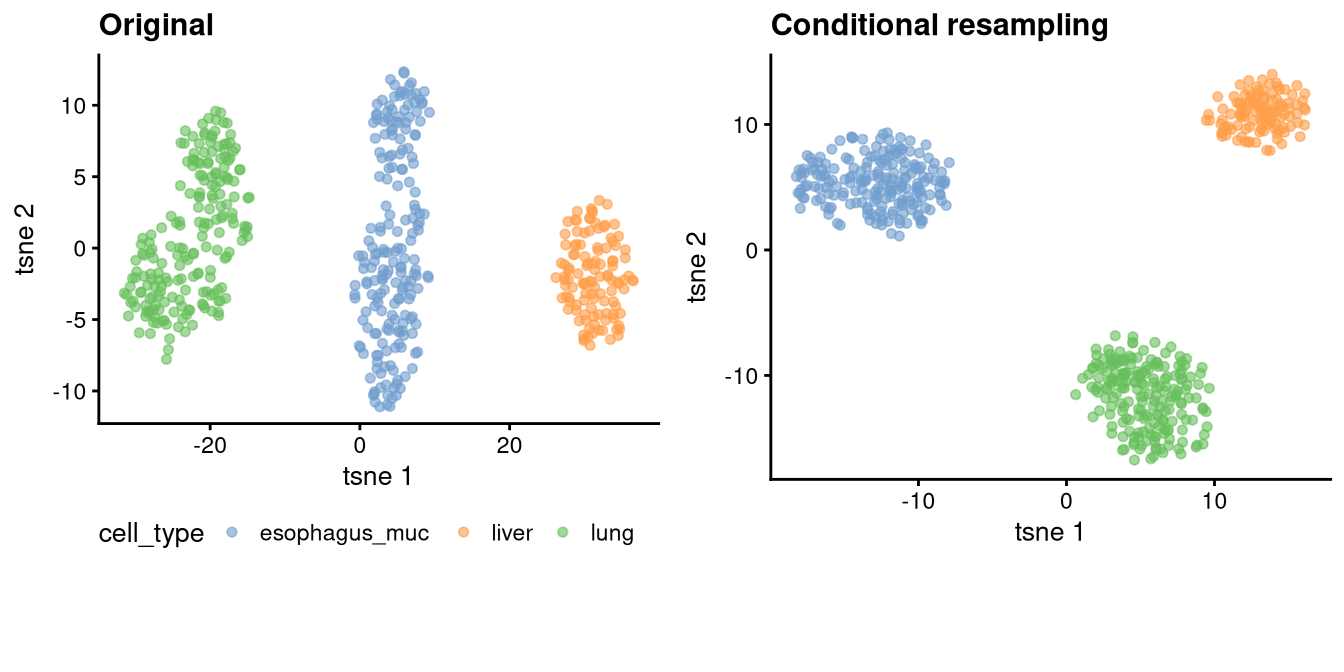
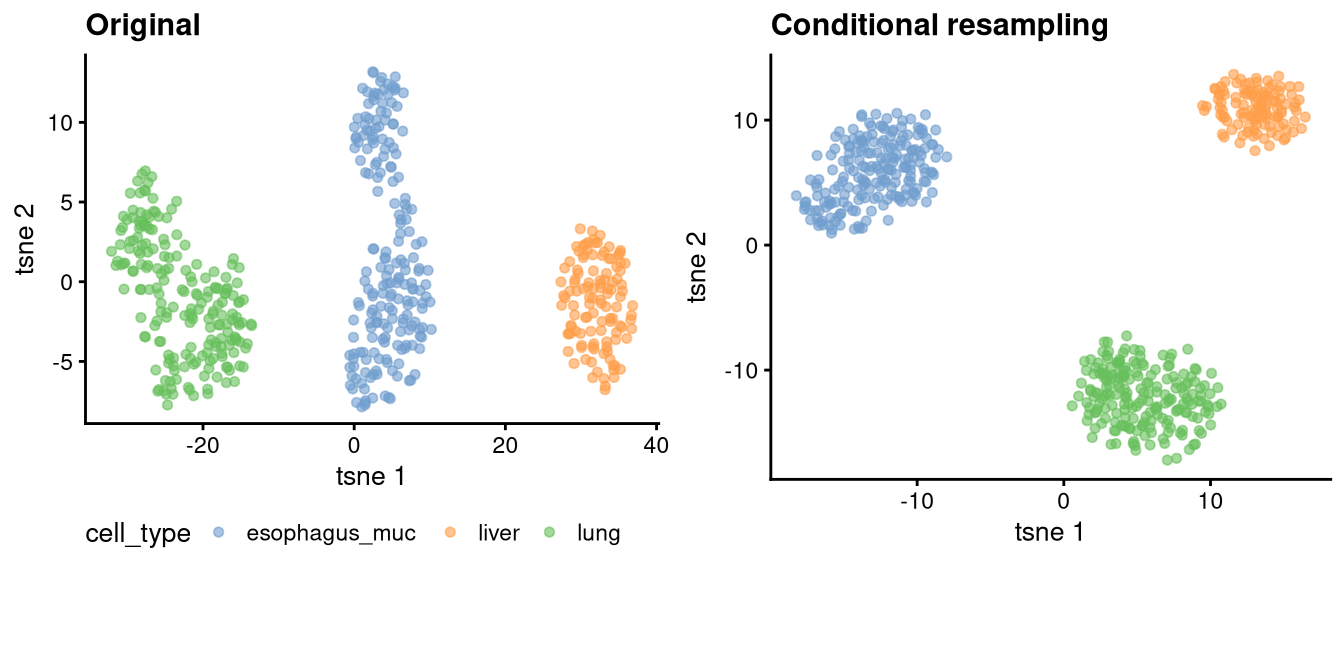
Deploying to gh-pages from @ bips-hb/harf@9778153cbe213dd88c931db7ad89fcbd60cdc885 🚀

diff --git a/articles/harf.html b/articles/harf.html
@@ -546,14 +546,13 @@ addition variables including age and gender are passed as the
 <span><span class="co">#&gt; Iteration: 0, Accuracy: 56.99%</span></span>
 <span><span class="co">#&gt; Iteration: 1, Accuracy: 38.04%</span></span>
 <span><span class="co">#&gt; Iteration: 0, Accuracy: 46.74%</span></span>
-<span><span class="co">#&gt; Iteration: 0, Accuracy: 50.54%</span></span>
-<span><span class="co">#&gt; Iteration: 1, Accuracy: 40.86%</span></span>
-<span><span class="co">#&gt; Iteration: 0, Accuracy: 44.68%</span></span>
-<span><span class="co">#&gt; Iteration: 0, Accuracy: 59.57%</span></span>
-<span><span class="co">#&gt; Iteration: 1, Accuracy: 34.41%</span></span>
-<span><span class="co">#&gt; Iteration: 0, Accuracy: 53.19%</span></span>
-<span><span class="co">#&gt; Iteration: 1, Accuracy: 55.91%</span></span>
-<span><span class="co">#&gt; Iteration: 0, Accuracy: 47.83%</span></span></code></pre></div>
+<span><span class="co">#&gt; Iteration: 0, Accuracy: 47.87%</span></span>
+<span><span class="co">#&gt; Iteration: 0, Accuracy: 55.91%</span></span>
+<span><span class="co">#&gt; Iteration: 1, Accuracy: 46.24%</span></span>
+<span><span class="co">#&gt; Iteration: 0, Accuracy: 48.39%</span></span>
+<span><span class="co">#&gt; Iteration: 0, Accuracy: 46.24%</span></span>
+<span><span class="co">#&gt; Iteration: 0, Accuracy: 55.43%</span></span>
+<span><span class="co">#&gt; Iteration: 1, Accuracy: 44.68%</span></span></code></pre></div>
 </div>
 <div class="section level3">
 <h3 id="generating-synthetic-data-1">Generating synthetic data<a class="anchor" aria-label="anchor" href="#generating-synthetic-data-1"></a>

diff --git a/index.html b/index.html
@@ -57,7 +57,7 @@
 </h2>
 <p>Adversarial random forests (ARFs) have recently been introduced as a well-performing generative method for low-dimensional datasets. Based on unsupervised RFs, ARFs rely on a recursive adversarial procedure in which trees progressively learn the structural properties of the data through alternating rounds of data generation and discrimination. The unsupervised classification task is achieved by introducing a synthetic response variable <math display="inline" xmlns="http://www.w3.org/1998/Math/MathML"><semantics><mrow><mi>y</mi><mo>∈</mo><mo stretchy="false" form="prefix">{</mo><mn>0</mn><mo>,</mo><mn>1</mn><mo stretchy="false" form="postfix">}</mo></mrow><annotation encoding="application/x-tex">y \in \{0,1\}</annotation></semantics></math>, where <math display="inline" xmlns="http://www.w3.org/1998/Math/MathML"><semantics><mrow><mi>y</mi><mo>=</mo><mn>0</mn></mrow><annotation encoding="application/x-tex">y = 0</annotation></semantics></math> denotes synthetic data and <math display="inline" xmlns="http://www.w3.org/1998/Math/MathML"><semantics><mrow><mi>y</mi><mo>=</mo><mn>1</mn></mrow><annotation encoding="application/x-tex">y = 1</annotation></semantics></math> denotes original data. During the discrimination phase, the objective is to distinguish original observations from synthetic ones. Synthetic data are created during the the adversarial game by marginal resampling of the original features in terminal nodes. The adversarial process stops when the prediction accuracy for <math display="inline" xmlns="http://www.w3.org/1998/Math/MathML"><semantics><mi>y</mi><annotation encoding="application/x-tex">y</annotation></semantics></math> falls below a predefined threshold, <math display="inline" xmlns="http://www.w3.org/1998/Math/MathML"><semantics><mn>0.5</mn><annotation encoding="application/x-tex">0.5</annotation></semantics></math>, for example.</p>
 <p>While ARFs have demonstrated strong performance in various low-dimensional settings, their behavior in high-dimensional contexts, such as omics data, remains non investigated. The key assumption of ARFs — that feature distributions are independent within terminal nodes — may be violated in high-dimensional settings. For example, if a small subset of features is highly predictive of the synthetic response variable <math display="inline" xmlns="http://www.w3.org/1998/Math/MathML"><semantics><mi>y</mi><annotation encoding="application/x-tex">y</annotation></semantics></math>, the remaining features not used to reach the terminal node may still be correlated, not allowing for marginal resampling. A typical resulting behaviour of ARF in such a situation is that the algorithm terminates without converging.</p>
-<p>The high-dimensional adversarial random forests (<em>h</em>-ARFs) package addresses the convergence issue of ARF by identifying isolated regions of the feature space in which the independence assumption is more likely to hold in terminal nodes. In addition, the <em>h</em>-ARF algorithm constructs a low-dimensional meta-space that captures the relationships among regions. Within each isolated region, separate ARFs are trained to better capture local data structures, followed by training additional ARF in a meta-region that capture the joint structure between isolated regions. To synthesize observations, the <em>h</em>-ARF algorithm first samples a region from the meta-space and then condition the resampling in the other isolated region by synthesized meta-observations. The <em>h</em>-ARF algorithm offers a flexible framework for unconditional and conditional data generation for downstream clustering and prediction analyses. The package includes a built-in single-cell RNA-seq datasets and TCGA-KICH dataset to illustrate its usage. We refer to the package vignette for detailed examples and explanations.</p>
+<p>The high-dimensional adversarial random forests (<em>h</em>-ARFs) package addresses the convergence issue of ARF by identifying isolated regions of the feature space in which the independence assumption is more likely to hold in terminal nodes. In addition, the <em>h</em>-ARF algorithm constructs a low-dimensional meta-space that captures the relationships among regions. Within each isolated region, separate ARFs are trained to better capture local data structures, followed by training additional ARF in a meta-region that capture the joint structure between isolated regions. To synthesize observations, the <em>h</em>-ARF algorithm first samples a region from the meta-space and then condition the resampling in the other isolated region by synthesized meta-observations. The <em>h</em>-ARF algorithm offers a flexible framework for unconditional and conditional data generation for downstream clustering and prediction analyses. The package includes a built-in single-cell RNA-seq datasets and TCGA-KICH dataset to illustrate its usage. We refer to the package <a href="https://bips-hb.github.io/harf/articles/harf.html">vignette</a> for detailed examples and explanations.</p>
 </div>
 <div class="section level2">
 <h2 id="package-installation">Package installation<a class="anchor" aria-label="anchor" href="#package-installation"></a>

diff --git a/articles/harf.md b/articles/harf.md
@@ -500,14 +500,13 @@ kich_harf <- h_arf(
 #> Iteration: 0, Accuracy: 56.99%
 #> Iteration: 1, Accuracy: 38.04%
 #> Iteration: 0, Accuracy: 46.74%
-#> Iteration: 0, Accuracy: 50.54%
-#> Iteration: 1, Accuracy: 40.86%
-#> Iteration: 0, Accuracy: 44.68%
-#> Iteration: 0, Accuracy: 59.57%
-#> Iteration: 1, Accuracy: 34.41%
-#> Iteration: 0, Accuracy: 53.19%
-#> Iteration: 1, Accuracy: 55.91%
-#> Iteration: 0, Accuracy: 47.83%
+#> Iteration: 0, Accuracy: 47.87%
+#> Iteration: 0, Accuracy: 55.91%
+#> Iteration: 1, Accuracy: 46.24%
+#> Iteration: 0, Accuracy: 48.39%
+#> Iteration: 0, Accuracy: 46.24%
+#> Iteration: 0, Accuracy: 55.43%
+#> Iteration: 1, Accuracy: 44.68%
 ```
 
 ### Generating synthetic data

diff --git a/index.md b/index.md
@@ -41,7 +41,8 @@ other isolated region by synthesized meta-observations. The *h*-ARF
 algorithm offers a flexible framework for unconditional and conditional
 data generation for downstream clustering and prediction analyses. The
 package includes a built-in single-cell RNA-seq datasets and TCGA-KICH
-dataset to illustrate its usage. We refer to the package vignette for
+dataset to illustrate its usage. We refer to the package
+[vignette](https://bips-hb.github.io/harf/articles/harf.html) for
 detailed examples and explanations.
 
 ## Package installation